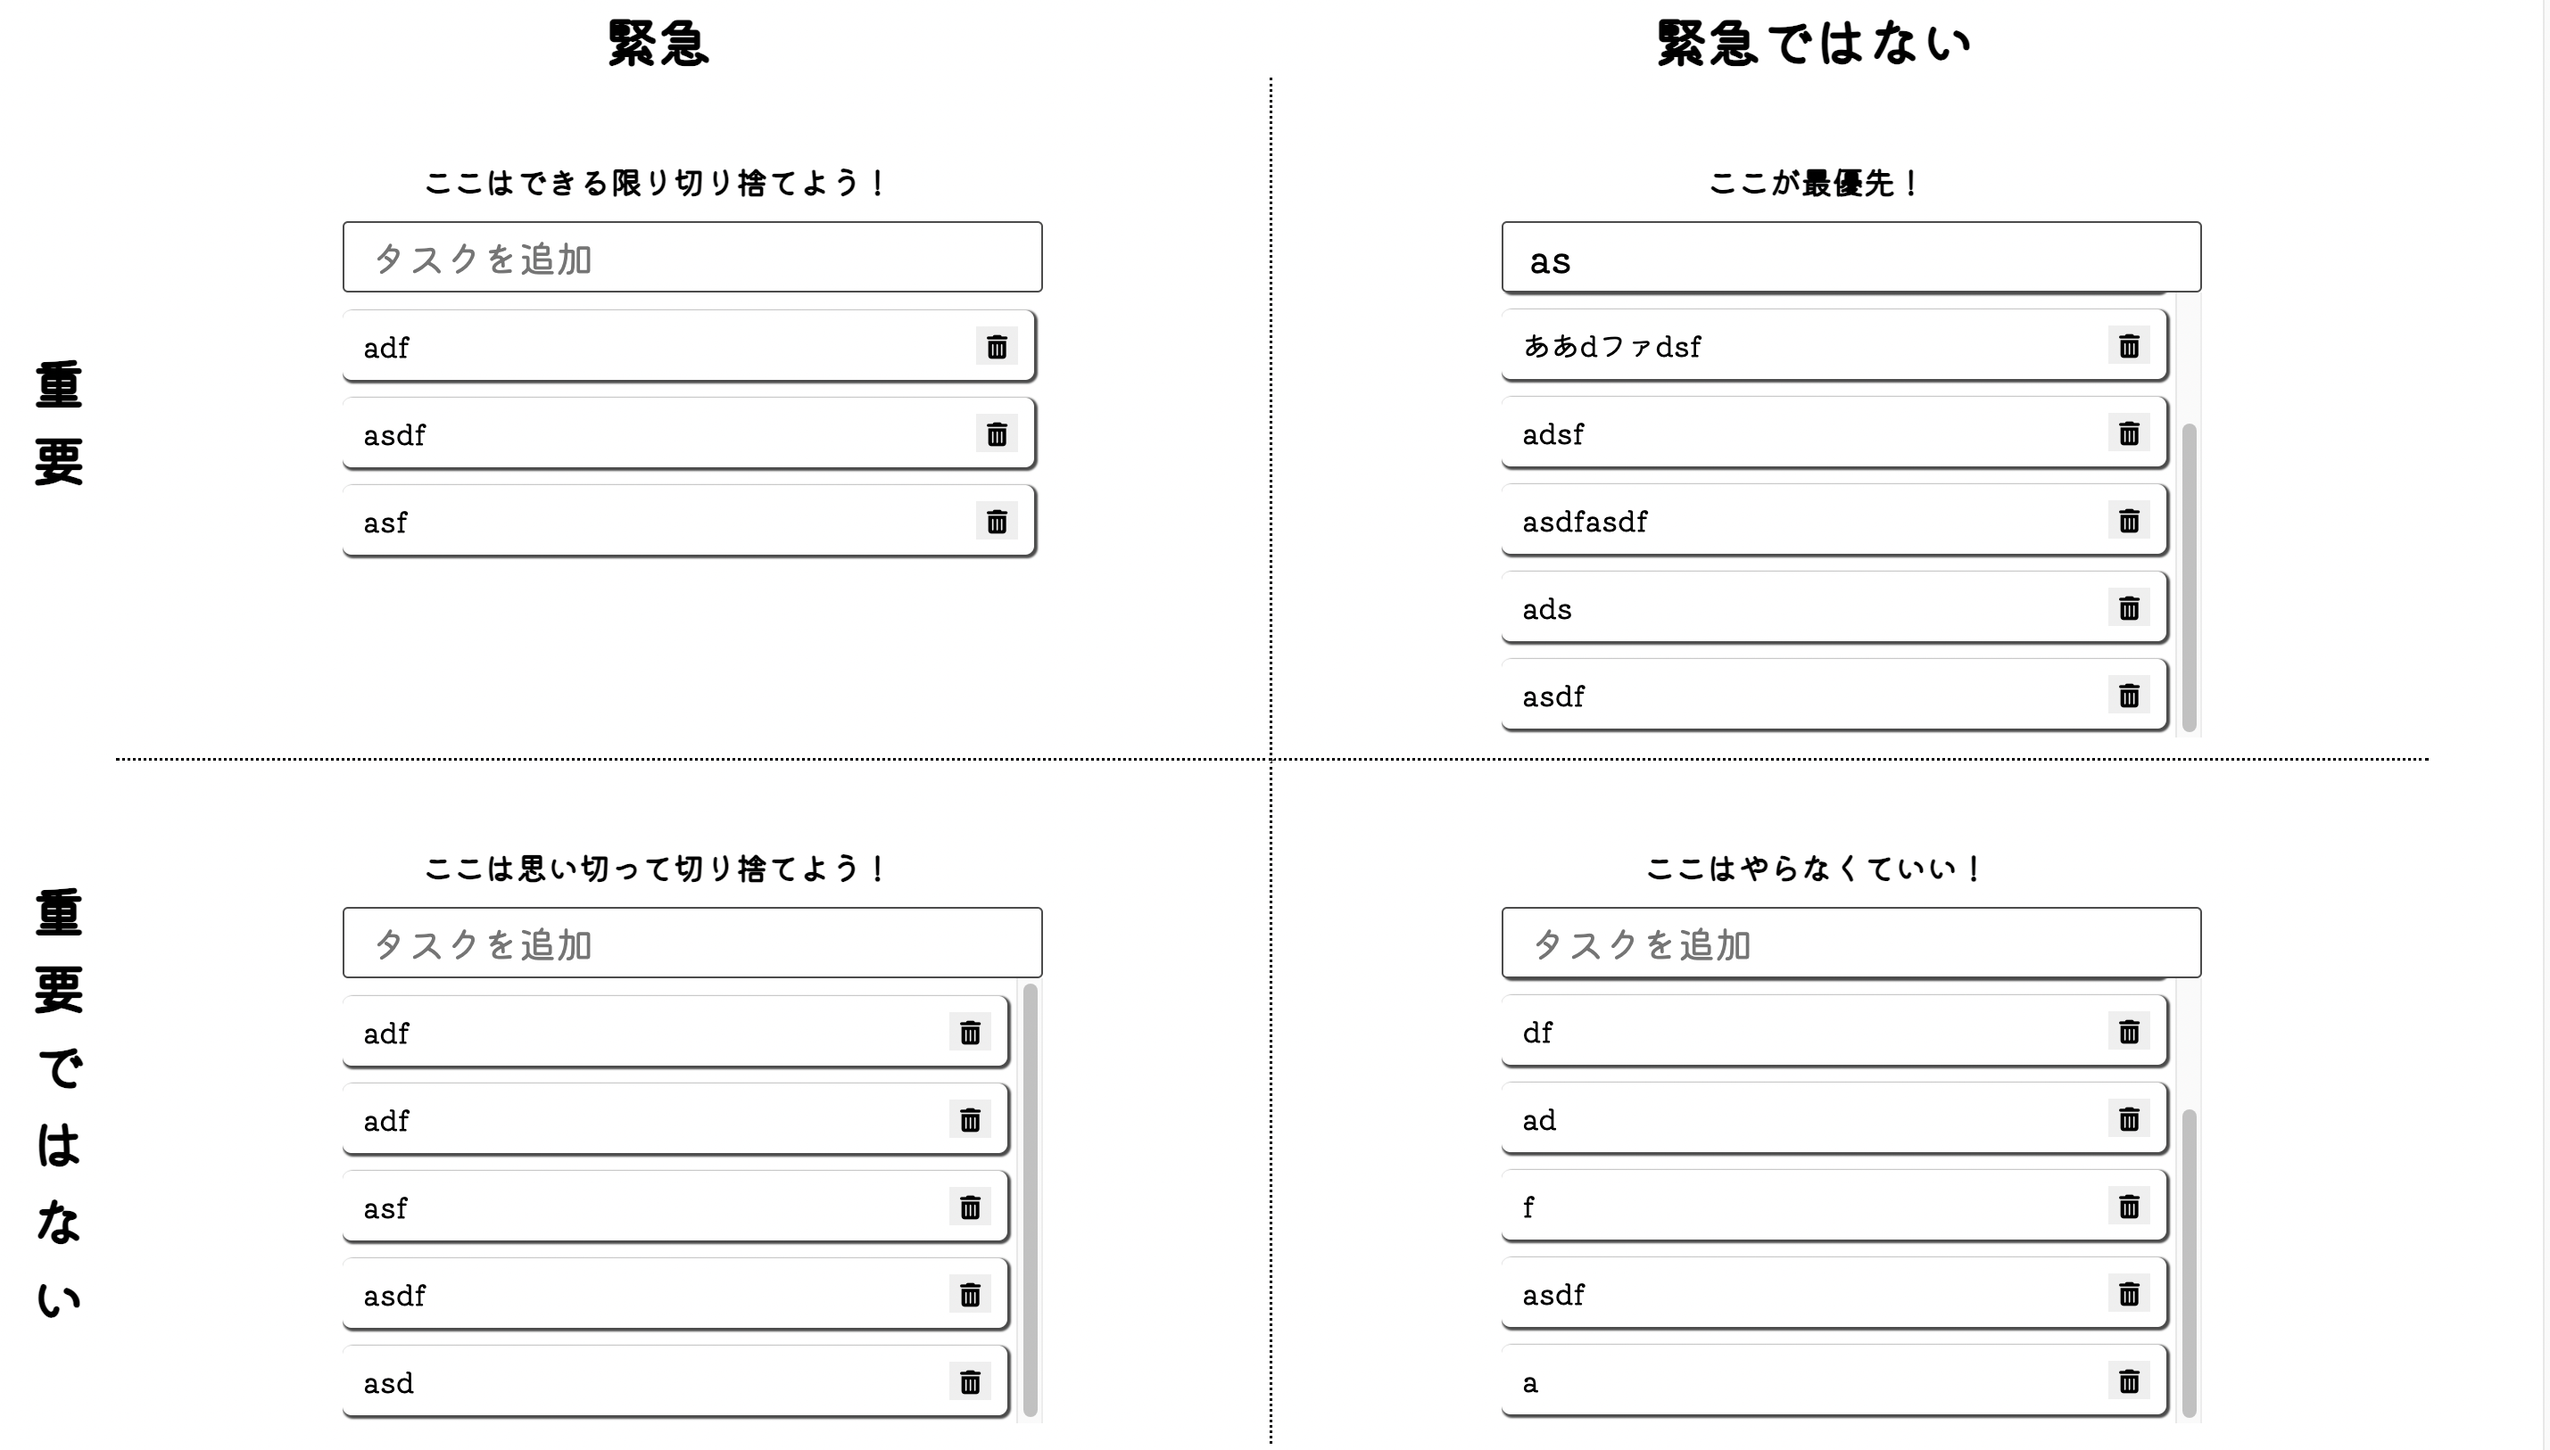
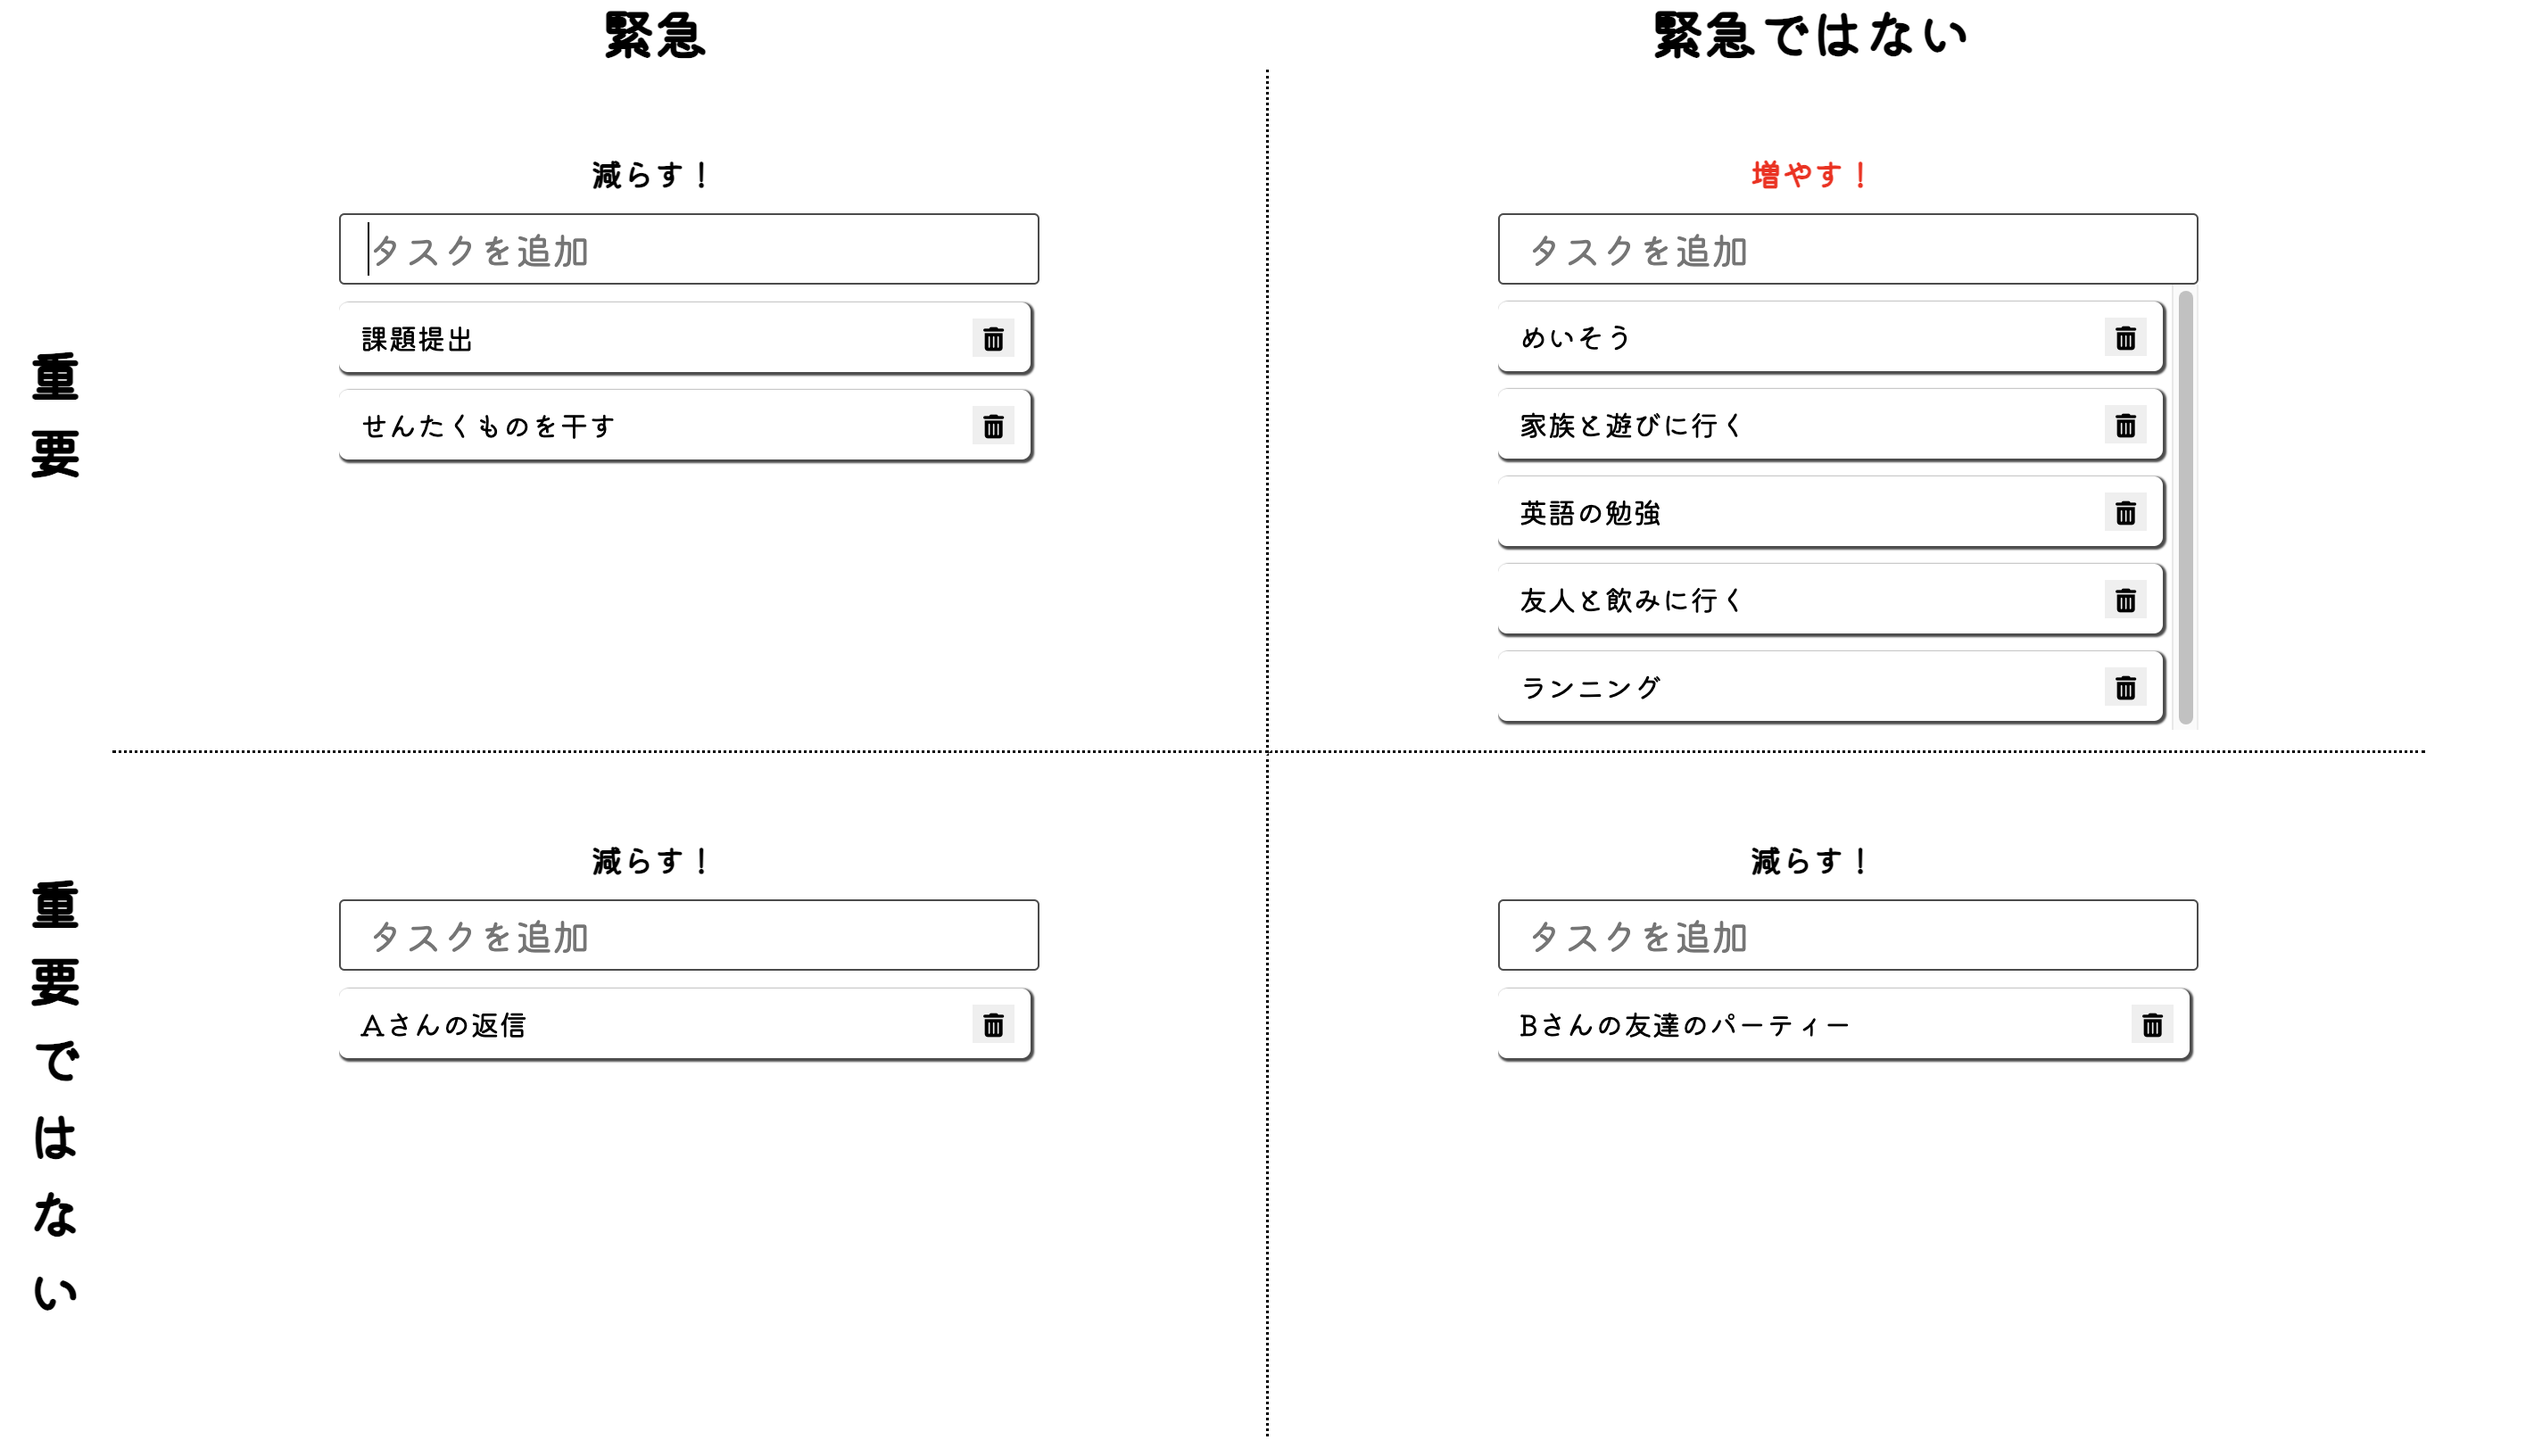
readme の編集とfavicon追加

diff --git a/public/index.html b/public/index.html
@@ -2,7 +2,7 @@
 <html lang="en">
   <head>
     <meta charset="utf-8" />
-    <link rel="icon" href="%PUBLIC_URL%/favicon.ico" />
+    <link rel="icon" href="./icons8-maybe-48.png" />
     <meta name="viewport" content="width=device-width, initial-scale=1" />
     <meta name="theme-color" content="#000000" />
     <meta

diff --git a/README.md b/README.md
@@ -1,4 +1,4 @@
-## タスクの優先順位を効率的につけていくことに特化した to-do リストアプリです。
+## 名著「７つの習慣」で書かれている優先順位の決め方に基づいた「やらないことリスト」アプリです。
 
 普段みんなが使っている to do list はタスクをガチガチに入れて、タスクに追われて結局ほとんどできてないことが多々あります。
 
@@ -7,5 +7,19 @@
 この priority-todo-list アプリはその問題を解決するために作られた、**優先順位を考え直す**ために特化したものです。
 
 自己啓発の超名著「７つの習慣」の作者 Steven R Covey 　が考えた、「４項目に分けてタスクの優先順位を考える方法」に基づいてつくられています。
+
+人生に時間は限られています
+
+その時間を私たちは無意識に無駄遣いしがちです
+
+Steven R Covey にが書かれた自己啓発の大名著「７つの習慣」の第３原則目が、「大切なことを優先する」です。
+
+第３原則目では Steven R Covey さんは我々の行動を４つの領域に分類しています：
+
+![image](./public/%EF%BC%94%E9%A0%98%E5%9F%9F.png)
+
+図の通り、私たち第２領域のタスクを優先するべきで他の３領域はできるだけやらないようにすることが大切だと言っています。
+
+このアプリは通常のやることリストと違い、私たちのタスクを Steven R Covey 流に分析し、やるべきことと、やらないべきことを決めることができるようにしています。
 
 ![image](./public/%E3%82%A2%E3%83%97%E3%83%AA%E3%81%AE%E3%82%A4%E3%83%A1%E3%83%BC%E3%82%B8.png)
